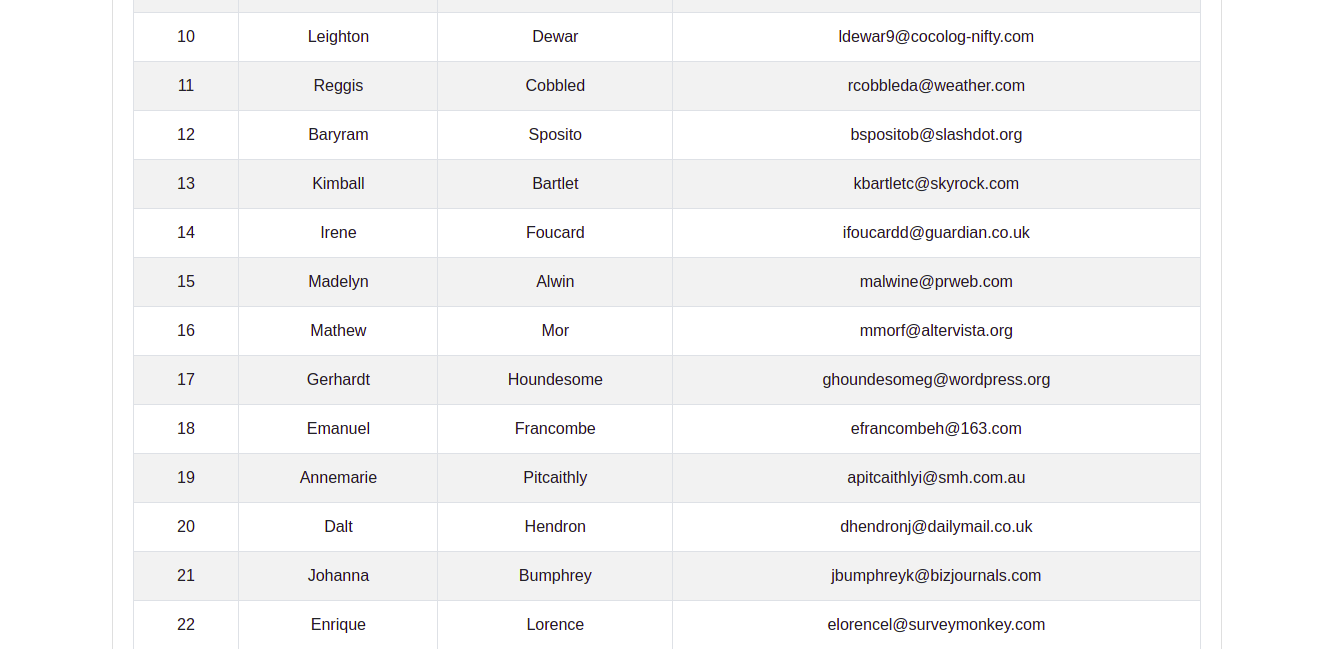
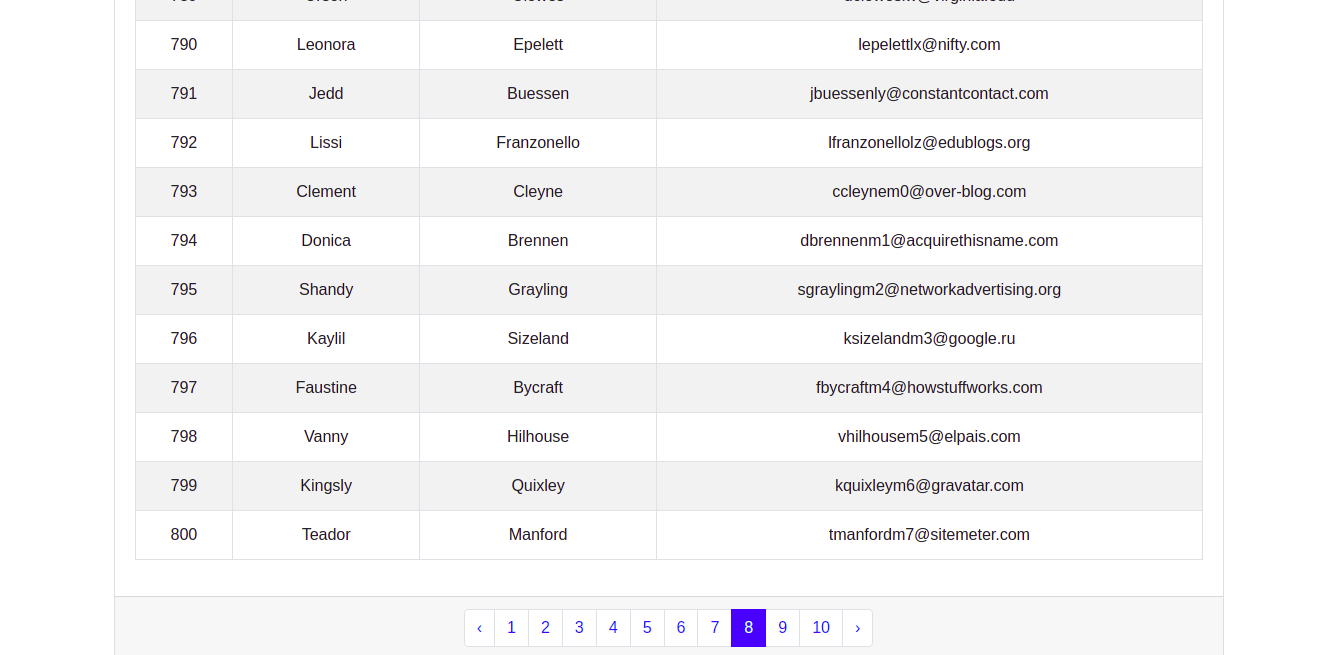
178. Paginando a tabela

diff --git a/public/css/app.css b/public/css/app.css
@@ -5270,6 +5270,7 @@ input[type=button].btn-block {
   padding-left: 0;
   list-style: none;
   border-radius: 0.25rem;
+  margin: 0 auto;
 }
 
 .page-link {

diff --git a/resources/views/index.blade.php b/resources/views/index.blade.php
@@ -19,8 +19,8 @@
 
 
 
-			<div class="card-header">
-				<h5>Clientes</h5>	
+			<div class="card-header" style="display: flex; align-content: center; align-items: center;">
+				{{ $clientes->links() }}
 			</div>
 
 
@@ -28,7 +28,7 @@
 			<div class="card-body">
 
 				<div class="card-title">
-					<h5>Exibindo 5 Clientes de um total de 100</h5>
+					<h5>Exibindo {{ $per_page }} clientes de um total de {{ $total_clientes }}</h5><br>					
 				</div>
 
 				<div class="table-responsive">
@@ -67,8 +67,8 @@
 
 
 
-			<div class="card-footer">
-				<h5>Páginas</h5>
+			<div class="card-footer" style="display: flex; align-content: center; align-items: center;">
+				{{ $clientes->links() }}
 			</div>
 
 

diff --git a/app/Http/Controllers/ClienteControlador.php b/app/Http/Controllers/ClienteControlador.php
@@ -14,9 +14,16 @@ class ClienteControlador extends Controller
 
     public function index()
     {
-        $clientes = Cliente::all();
-        
-        return view('index', compact('clientes'));
+        // $clientes = Cliente::all();
+        $per_page = 100;
+        $clientes = Cliente::paginate(100);
+        $total_clientes = Cliente::count();
+
+        return view('index', [
+            'clientes' => $clientes,
+            'per_page' => $per_page, 
+            'total_clientes' => $total_clientes
+        ]);
     }
 
 

diff --git a/readme.md b/readme.md
@@ -1,3 +1,2 @@
 ![site](img/1.png)
 ![site](img/2.png)
-![site](img/3.png)
